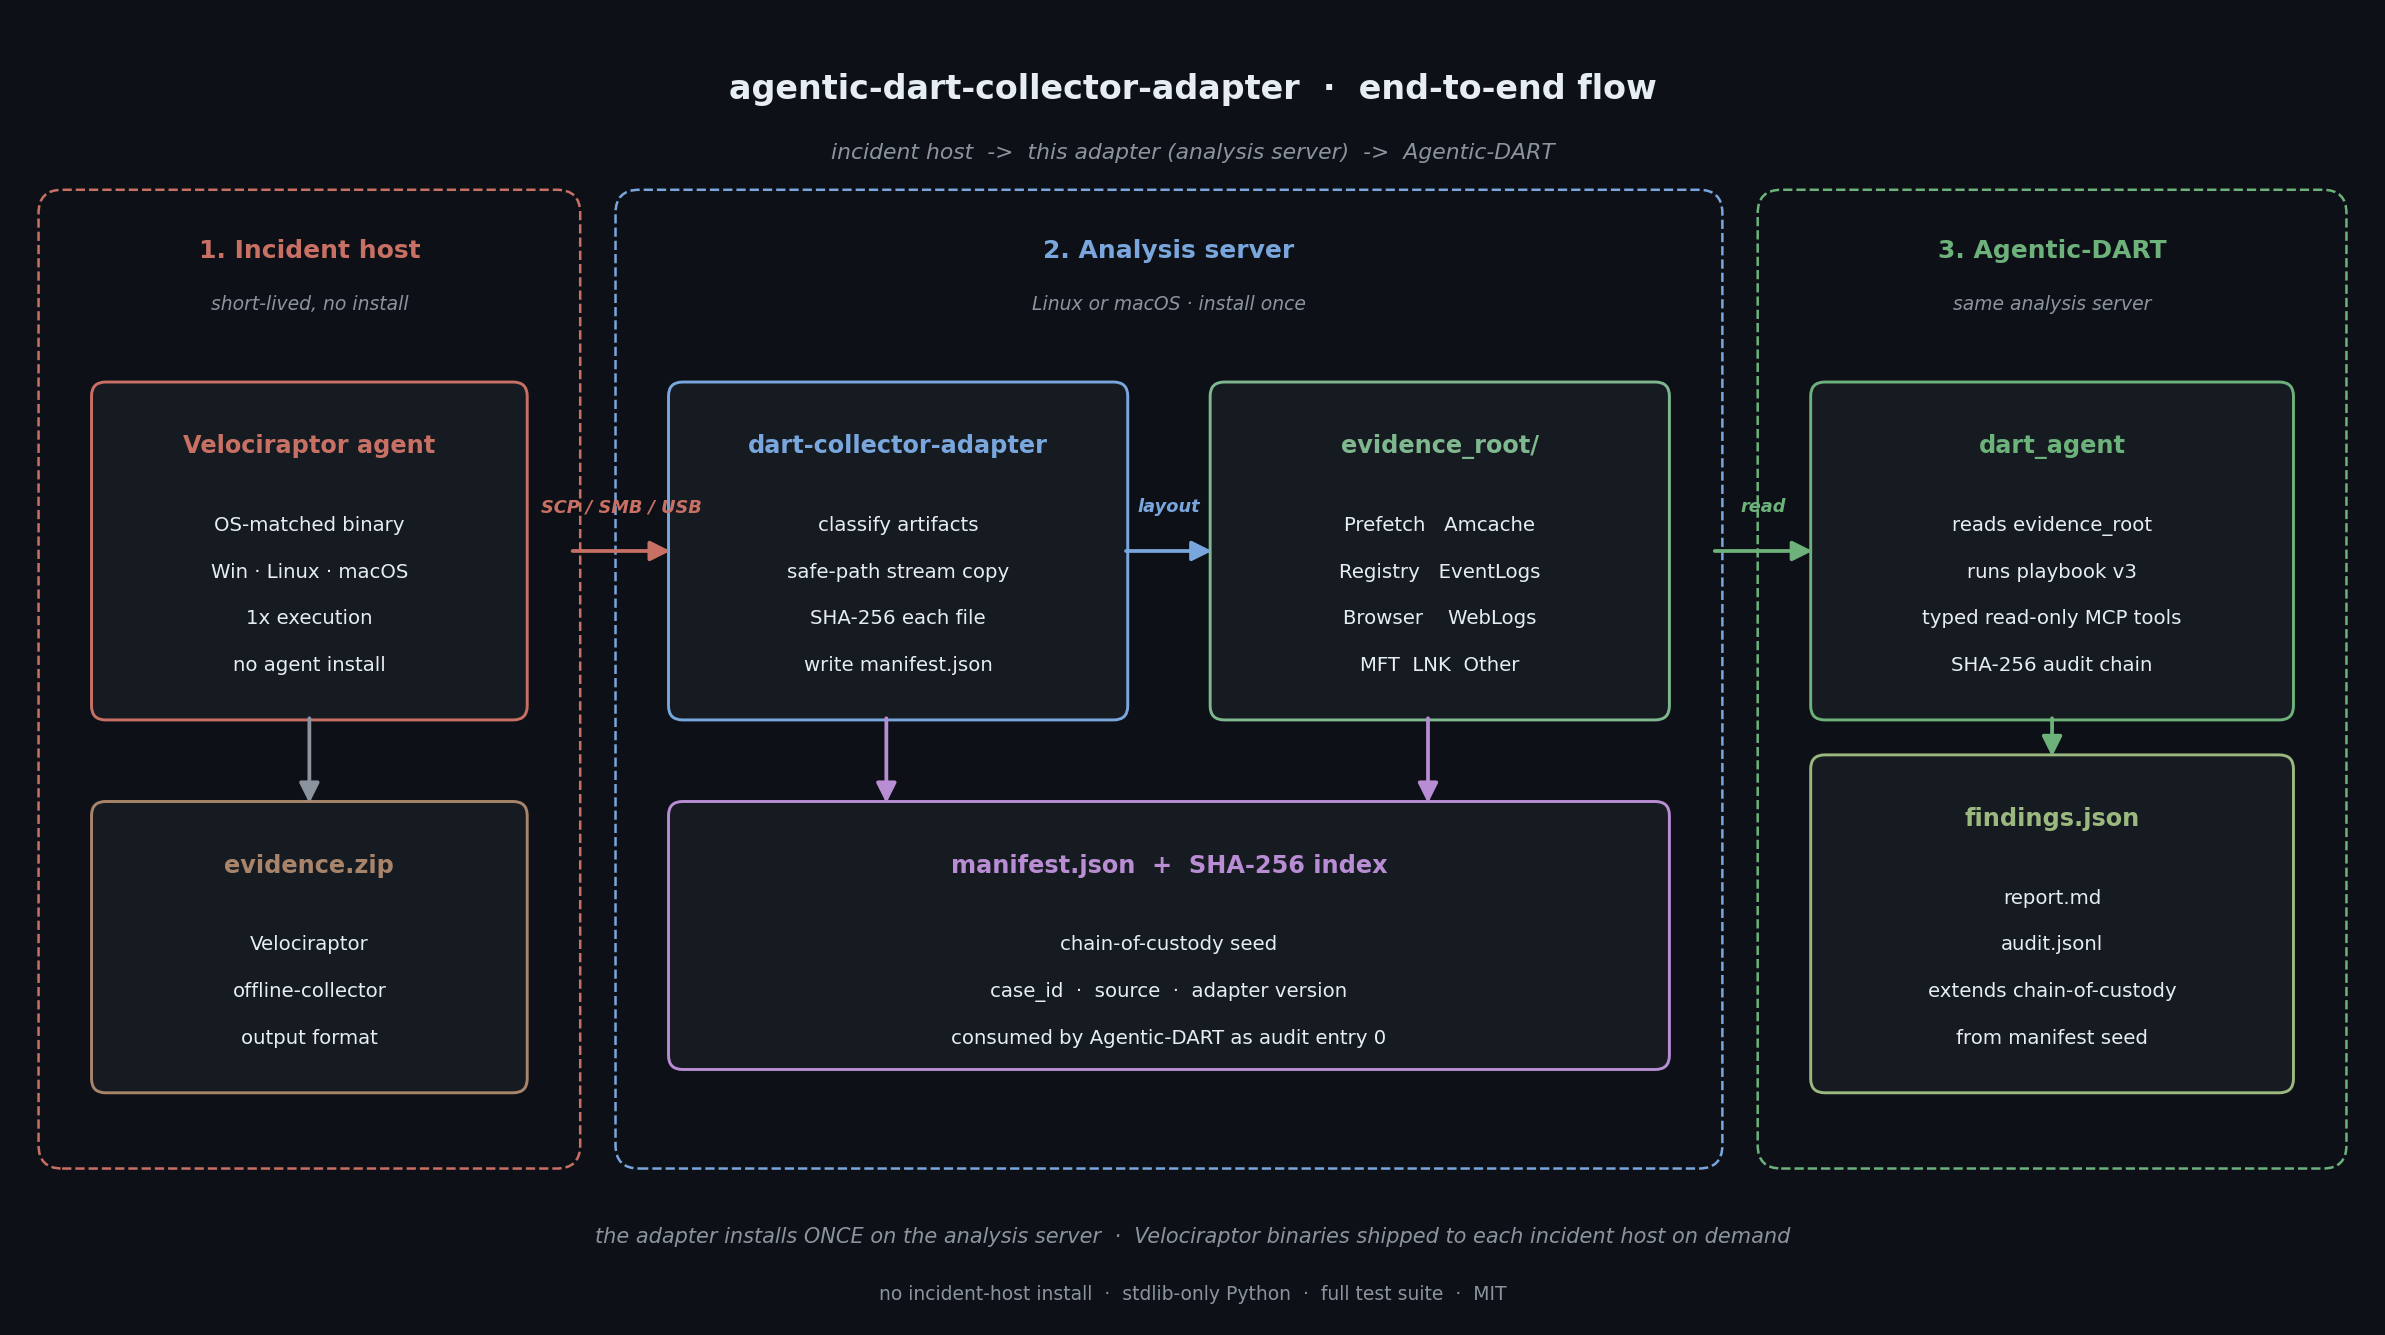
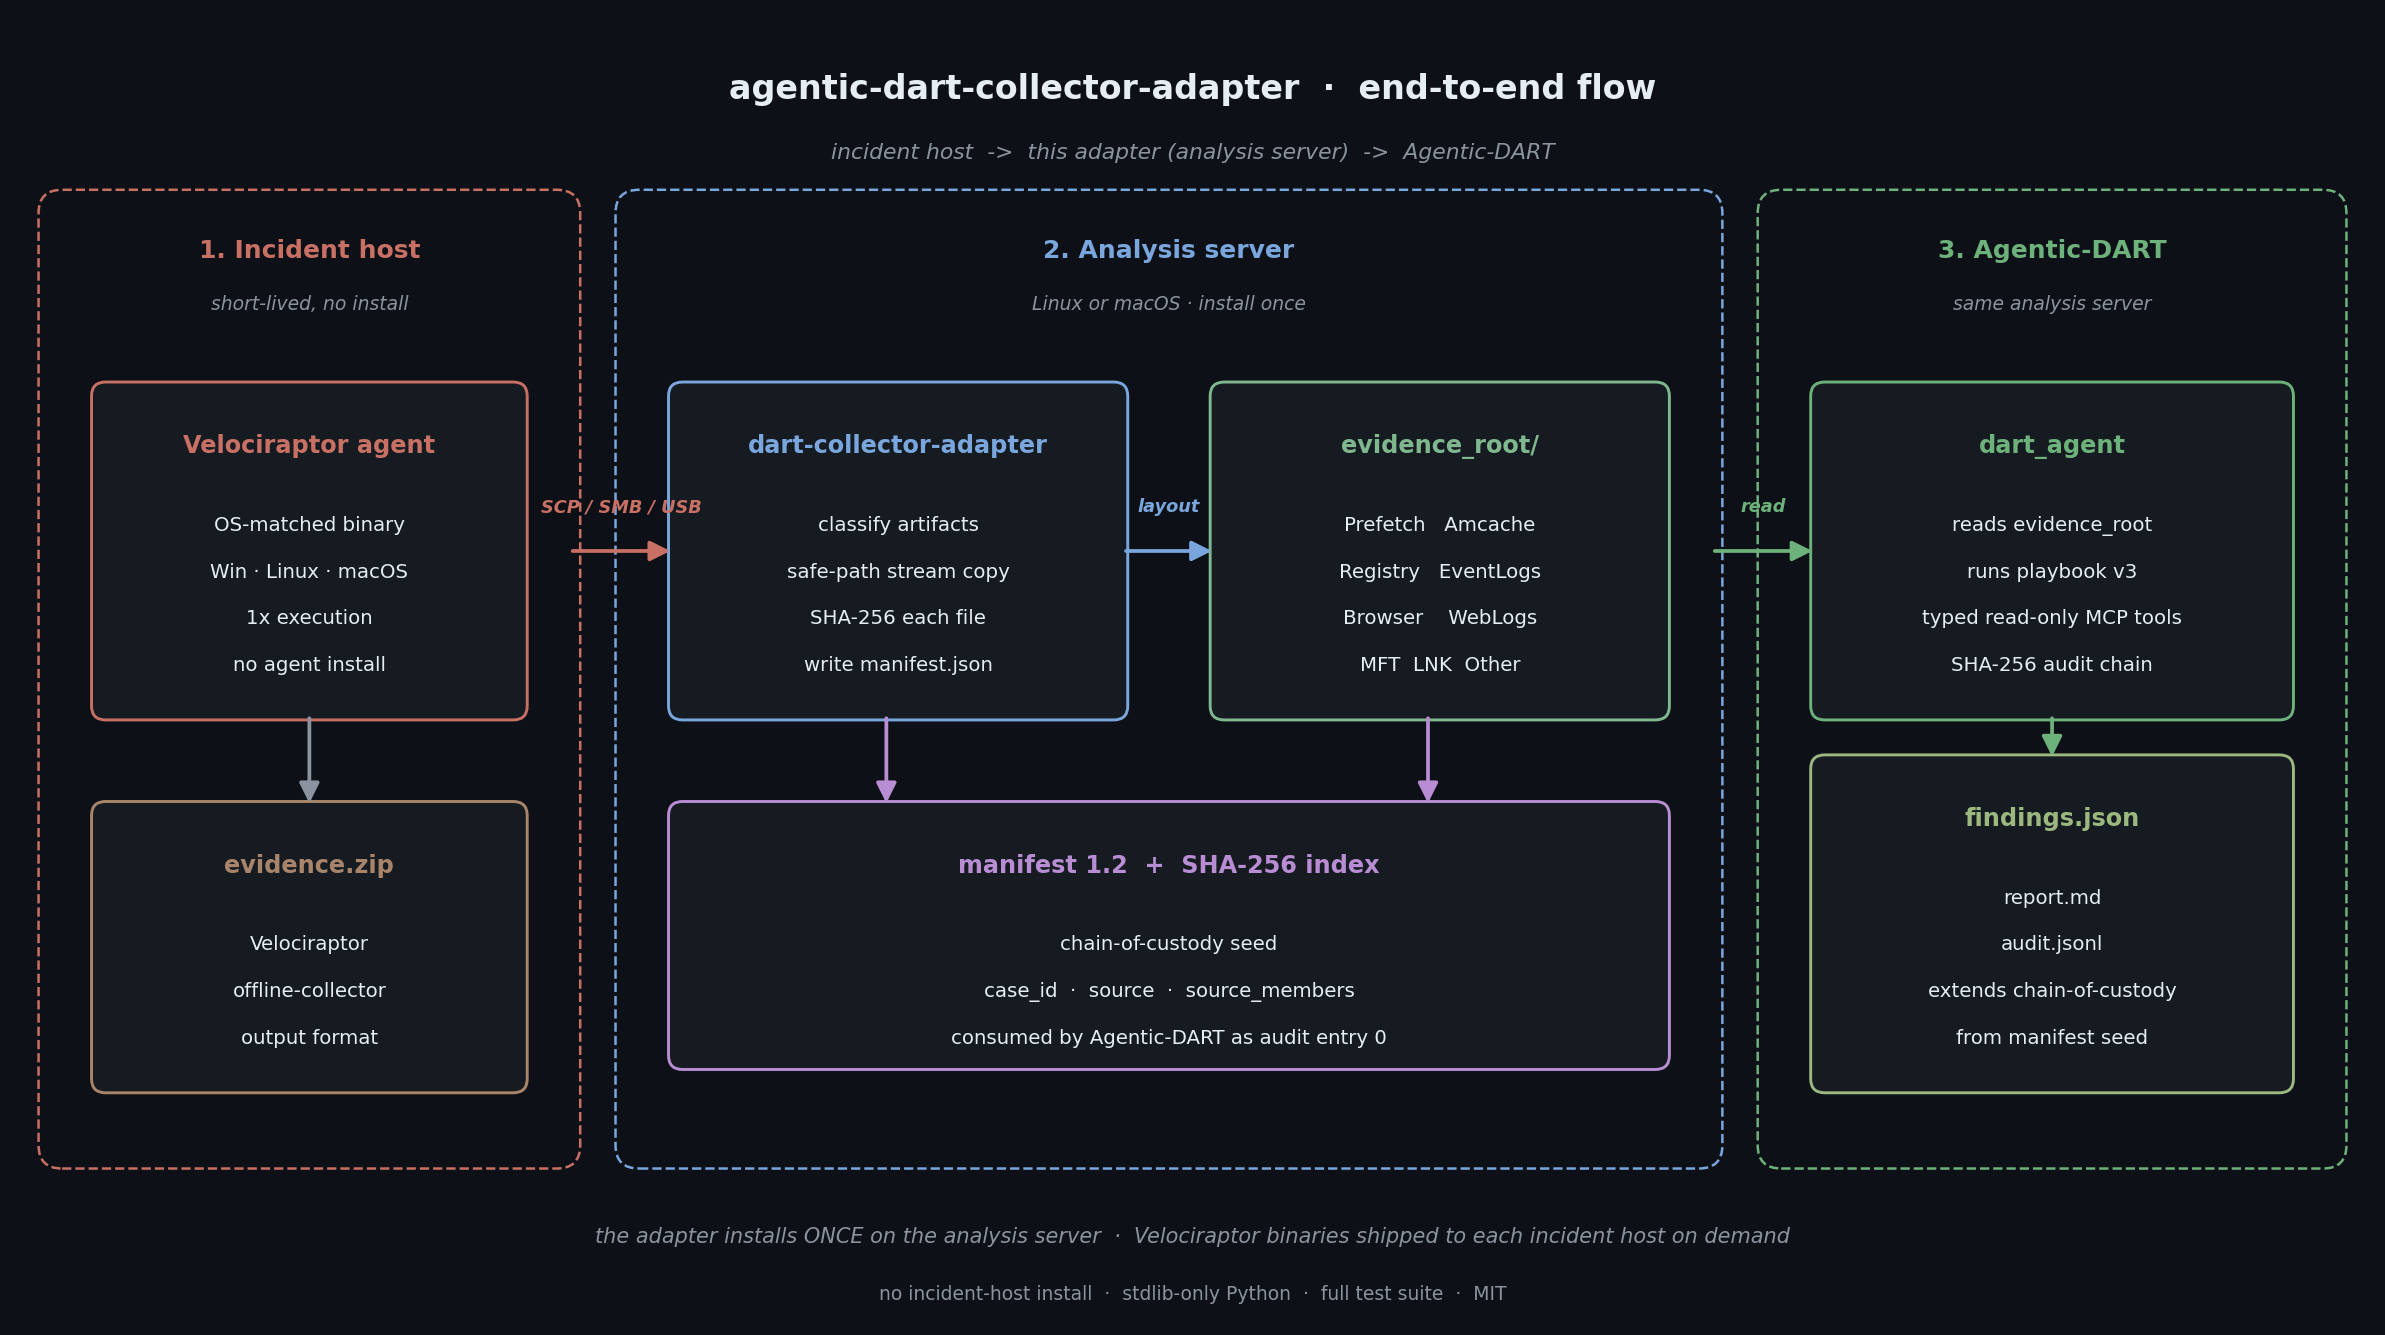
fix: preserve source provenance for flat-layout collisions
Avoid silently overwriting artifacts when different Velociraptor ZIP members collapse to the same evidence_root basename. Colliding outputs now receive a deterministic source-path digest suffix.

Bump manifest.json to schema 1.2 and add source_members so each output-relative path maps back to its original ZIP member. Expose the same provenance map on AdapterResult.

Refresh package metadata, README examples, changelog, and generated diagrams around the stable 1.0.1 adapter behavior.

QA: compileall passed for src, tests, and scripts. pytest passed: 46 passed. pytest --collect-only confirmed 46 tests.

Changed region(s): [[0.4034, 0.6142, 0.5895, 0.6757], [0.4034, 0.7371, 0.5585, 0.7985], [0.5895, 0.4914, 0.6205, 0.5221]]

diff --git a/tests/test_adapter.py b/tests/test_adapter.py
@@ -44,12 +44,12 @@ def test_adapt_produces_expected_layout(velo_zip: Path, tmp_path: Path):
 
 def test_manifest_has_required_fields(velo_zip: Path, tmp_path: Path):
     out = tmp_path / "evidence_root"
-    adapt(velo_zip, out, case_id="case-manifest")
+    result = adapt(velo_zip, out, case_id="case-manifest")
     manifest = json.loads((out / "manifest.json").read_text(encoding="utf-8"))
 
     for k in ("manifest_version", "case_id", "generated_at",
               "source", "host", "adapter", "counters",
-              "categories", "sha256_index"):
+              "categories", "sha256_index", "source_members"):
         assert k in manifest, f"missing manifest field: {k}"
 
     assert manifest["case_id"] == "case-manifest"
@@ -58,6 +58,12 @@ def test_manifest_has_required_fields(velo_zip: Path, tmp_path: Path):
     assert manifest["categories"]["amcache"] == 1
     # SHA-256 index covers every output file
     assert "Prefetch/SVCHOST.EXE-ABC.pf" in manifest["sha256_index"]
+    assert manifest["source_members"]["Prefetch/SVCHOST.EXE-ABC.pf"].endswith(
+        "SVCHOST.EXE-ABC.pf"
+    )
+    assert result.source_members["Prefetch/SVCHOST.EXE-ABC.pf"].endswith(
+        "SVCHOST.EXE-ABC.pf"
+    )
 
 
 def test_adapt_refuses_overwrite_by_default(velo_zip: Path, tmp_path: Path):
@@ -145,6 +151,34 @@ def test_overwrite_clears_stale_files(velo_zip: Path, tmp_path: Path):
     assert manifest["counters"]["files_copied"] == len(manifest["sha256_index"])
     assert "Prefetch/NOTEPAD.EXE-NEW.pf" in manifest["sha256_index"]
     assert "Prefetch/SVCHOST.EXE-ABC.pf" not in manifest["sha256_index"]
+
+
+def test_duplicate_basenames_are_not_silently_overwritten(tmp_path: Path):
+    z = tmp_path / "duplicate-history.zip"
+    with zipfile.ZipFile(z, "w") as zf:
+        zf.writestr(
+            "uploads/auto/C:/Users/alice/AppData/Local/Google/Chrome/User Data/Default/History",
+            b"alice",
+        )
+        zf.writestr(
+            "uploads/auto/C:/Users/bob/AppData/Local/Google/Chrome/User Data/Default/History",
+            b"bob",
+        )
+
+    out = tmp_path / "out"
+    result = adapt(z, out, case_id="case-dup")
+    manifest = json.loads((out / "manifest.json").read_text(encoding="utf-8"))
+    browser_files = sorted(p.name for p in (out / "Browser").iterdir())
+
+    assert result.files_copied == 2
+    assert len(browser_files) == 2
+    assert "History" in browser_files
+    assert (out / "Browser" / "History").read_bytes() == b"alice"
+    assert any(name.startswith("History-") for name in browser_files)
+    assert len(result.source_members) == 2
+    assert len(manifest["sha256_index"]) == 2
+    assert len(manifest["source_members"]) == 2
+    assert any("Users/bob" in member for member in manifest["source_members"].values())
 
 
 def test_symlink_member_is_skipped(tmp_path: Path):

diff --git a/src/dart_collector_adapter/adapter.py b/src/dart_collector_adapter/adapter.py
@@ -72,6 +72,7 @@ class AdapterResult:
     bytes_copied: int = 0
     categories: dict[str, int] = field(default_factory=dict)
     skipped_paths: list[str] = field(default_factory=list)
+    source_members: dict[str, str] = field(default_factory=dict)
     source_sha256: str | None = None
 
 
@@ -163,6 +164,7 @@ def adapt(
             if target is None:
                 _skip(result, info.filename, "would escape evidence_root")
                 continue
+            target = _avoid_target_collision(target, dst, info.filename)
 
             target.parent.mkdir(parents=True, exist_ok=True)
             remaining_total = max_total_bytes - result.bytes_copied
@@ -191,6 +193,7 @@ def adapt(
 
             rel = target.relative_to(dst).as_posix()
             sha256_index[rel] = sha
+            result.source_members[rel] = info.filename
 
             result.files_copied += 1
             result.bytes_copied += written
@@ -210,6 +213,7 @@ def adapt(
         skipped_paths=result.skipped_paths,
         include_sha256_index=include_sha256_index,
         sha256_index=dict(sorted(sha256_index.items())) if include_sha256_index else None,
+        source_members=dict(sorted(result.source_members.items())),
     )
 
     return result
@@ -269,6 +273,34 @@ def _apply_member_mtime(target: Path, info: zipfile.ZipInfo) -> None:
         os.utime(target, (ts, ts))
     except (OverflowError, OSError, ValueError):
         pass
+
+
+def _avoid_target_collision(target: Path, evidence_root: Path, member_name: str) -> Path:
+    """
+    Keep the public evidence_root layout flat, but never let two source
+    members silently overwrite each other. Common forensic filenames such as
+    History, SYSTEM, access.log, and ConsoleHost_history.txt can appear once
+    per user/profile/host in a Velociraptor ZIP.
+    """
+    if not target.exists():
+        return target
+
+    digest = hashlib.sha256(member_name.encode("utf-8", errors="surrogatepass")).hexdigest()[:12]
+    stem = target.stem or target.name
+    suffix = target.suffix
+    parent = target.parent
+    candidate = parent / f"{stem}-{digest}{suffix}"
+    counter = 2
+    while candidate.exists():
+        candidate = parent / f"{stem}-{digest}-{counter}{suffix}"
+        counter += 1
+
+    root_resolved = evidence_root.resolve()
+    try:
+        candidate.resolve().relative_to(root_resolved)
+    except ValueError as e:
+        raise RuntimeError(f"collision target escaped evidence_root: {candidate}") from e
+    return candidate
 
 
 def _safe_target_path(evidence_root: Path, member_name: str) -> Path | None:

diff --git a/src/dart_collector_adapter/manifest.py b/src/dart_collector_adapter/manifest.py
@@ -7,6 +7,7 @@ The manifest is the chain-of-custody seed for Agentic-DART:
 - sha256_index lets downstream tools verify integrity without re-reading the ZIP
 - source.sha256 anchors the input ZIP's identity so the chain survives rename
 - skipped records what the adapter refused, with the reason
+- source_members maps each output file back to its original ZIP member path
 """
 from __future__ import annotations
 
@@ -18,7 +19,7 @@ from pathlib import Path
 from .hash_indexer import compute_sha256_tree
 
 MANIFEST_NAME = "manifest.json"
-MANIFEST_VERSION = "1.1"
+MANIFEST_VERSION = "1.2"
 
 
 def write_manifest(
@@ -33,6 +34,7 @@ def write_manifest(
     include_sha256_index: bool = True,
     source_sha256: str | None = None,
     sha256_index: dict[str, str] | None = None,
+    source_members: dict[str, str] | None = None,
     skipped_paths: list[str] | None = None,
     adapter_version: str | None = None,
 ) -> Path:
@@ -45,6 +47,8 @@ def write_manifest(
         include_sha256_index is True, the output tree is walked.
     source_sha256 : SHA-256 of the input collector ZIP (chain-of-custody anchor).
     skipped_paths : list of "<member>  (<reason>)" strings recorded by the adapter.
+    source_members : {output_relative_path: original_zip_member_name}. This preserves
+        provenance when flat layout collision handling renames an output file.
     adapter_version : injected to avoid an import-time cycle.
     """
     root = Path(evidence_root).resolve()
@@ -83,6 +87,9 @@ def write_manifest(
 
     if skipped_paths:
         manifest["skipped"] = list(skipped_paths)
+
+    if source_members is not None:
+        manifest["source_members"] = dict(sorted(source_members.items()))
 
     if include_sha256_index:
         index = sha256_index

diff --git a/scripts/_gen_diagrams.py b/scripts/_gen_diagrams.py
@@ -93,9 +93,9 @@ def diagram_arch():
          lines=["Prefetch   Amcache", "Registry   EventLogs",
                 "Browser    WebLogs", "MFT  LNK  Other"])
     _arrow(ax, 47, 33, 51, 33, color=ADAPTER, label="layout", label_offset=1.5)
-    _box(ax, 28, 11, 42, 11, MANIFEST, title="manifest.json  +  SHA-256 index",
+    _box(ax, 28, 11, 42, 11, MANIFEST, title="manifest 1.2  +  SHA-256 index",
          lines=["chain-of-custody seed",
-                "case_id  ·  source  ·  adapter version",
+                "case_id  ·  source  ·  source_members",
                 "consumed by Agentic-DART as audit entry 0"])
     _arrow(ax, 37, 26, 37, 22, color=MANIFEST)
     _arrow(ax, 60, 26, 60, 22, color=MANIFEST)
@@ -139,9 +139,9 @@ def diagram_roadmap():
             ha="center", va="top", fontsize=15, fontweight="bold", color=TEXT_PRI)
 
     phases = [
-        ("v1.0", "current",
+        ("v1.0.1", "current",
          ["Velociraptor ZIP", "  to evidence_root",
-          "SHA-256 manifest 1.1", "hardened · CI green"],
+          "manifest 1.2", "source-member provenance"],
          ADAPTER, True),
         ("v1.1", "next",
          ["sidecar generation", "PECmd · AmcacheParser",

diff --git a/README.md b/README.md
@@ -203,7 +203,8 @@ Output:
   },
   "files_copied": 174,
   "files_skipped": 0,
-  "output_root": "/evidence/case-2026-001"
+  "output_root": "/evidence/case-2026-001",
+  "source_sha256": "44e8c1..."
 }
 ```
 
@@ -245,6 +246,8 @@ class AdapterResult:
     bytes_copied: int
     categories: dict[str, int]
     skipped_paths: list[str]
+    source_members: dict[str, str]
+    source_sha256: str | None
 ```
 
 ---
@@ -256,7 +259,7 @@ class AdapterResult:
 | 1    | Open the Velociraptor ZIP and iterate every file member.                                              |
 | 2    | Classify each member by name (`.pf` → Prefetch, `Amcache.hve` → Amcache, `*.evtx` → EventLogs, ...).  |
 | 3    | Validate the basename — reject control bytes, traversal characters, and anything that resolves outside the evidence_root. |
-| 4    | Stream-copy into `evidence_root/<Category>/<basename>` (preserves binary content, never modifies).    |
+| 4    | Stream-copy into `evidence_root/<Category>/<basename>` (preserves binary content, never modifies). If two source members collapse to the same flat filename, the later copy receives a short content-independent source-path digest suffix instead of overwriting the earlier one. |
 | 5    | After all files copied, walk the output and SHA-256 every file (1 MiB streaming, no full-file load).  |
 | 6    | Write `manifest.json` last so a half-finished run never looks successful.                             |
 
@@ -273,6 +276,10 @@ The adapter is opinionated about what it *won't* do, to keep its security surfac
 - Existing `evidence_root` with a manifest is not overwritten (use `--overwrite`; when used, known layout subdirectories are cleared first so stale evidence cannot contaminate the new manifest).
 
 Skipped paths are reported in `AdapterResult.skipped_paths` **and** persisted under `skipped` in `manifest.json` for chain-of-custody.
+
+Collision-renamed files are mapped back to their original ZIP member path under
+`manifest.json` -> `source_members`, so downstream tools can preserve provenance
+without giving up the flat `evidence_root` layout.
 
 ---
 
@@ -306,7 +313,7 @@ Written under `evidence_root/manifest.json`:
 
 ```json
 {
-  "manifest_version": "1.1",
+  "manifest_version": "1.2",
   "case_id": "case-2026-001",
   "generated_at": "2026-05-13T15:00:00+00:00",
   "source": {
@@ -321,7 +328,7 @@ Written under `evidence_root/manifest.json`:
   },
   "adapter": {
     "name": "agentic-dart-collector-adapter",
-    "version": "1.0.0"
+    "version": "1.0.1"
   },
   "counters": {
     "files_copied": 174,
@@ -336,14 +343,23 @@ Written under `evidence_root/manifest.json`:
     "browser": 4
   },
   "skipped": [],
+  "source_members": {
+    "Prefetch/SVCHOST.EXE-ABC.pf": "uploads/auto/C:/Windows/Prefetch/SVCHOST.EXE-ABC.pf",
+    "Browser/History": "uploads/auto/C:/Users/alice/AppData/Local/Google/Chrome/User Data/Default/History",
+    "Browser/History-7e9a1c2d3b4f": "uploads/auto/C:/Users/bob/AppData/Local/Google/Chrome/User Data/Default/History"
+  },
   "sha256_index": {
     "Prefetch/SVCHOST.EXE-ABC.pf": "9d7f...",
-    "Amcache/Amcache.hve": "3c8e..."
+    "Amcache/Amcache.hve": "3c8e...",
+    "Browser/History": "8d41...",
+    "Browser/History-7e9a1c2d3b4f": "b7a0..."
   }
 }
 ```
 
-> Manifest schema is at `1.1`: `source.sha256` (input-ZIP anchor) and `skipped` (audit trail) are included alongside the file index.
+> Manifest schema is at `1.2`: `source.sha256` anchors the input ZIP,
+> `skipped` records refused inputs, and `source_members` preserves provenance
+> for flattened or collision-renamed output files alongside the SHA-256 index.
 
 ---
 
@@ -363,7 +379,7 @@ Because forking 100k+ lines of Go to add one Python adapter would be insane.
 
 | Phase     | Status   | Scope                                                                                            |
 |-----------|----------|--------------------------------------------------------------------------------------------------|
-| **v1.0**  | current  | Velociraptor ZIP → evidence_root with SHA-256 manifest 1.1; hardened integrity (input-ZIP SHA-256 anchor, persisted skip log, overwrite-safe), ZIP-bomb + symlink defenses, single-pass hashing, mtime preservation, install-time binary checksum verification. Full test suite passing on Linux+macOS × py3.10/11/12. |
+| **v1.0.1** | current  | Velociraptor ZIP → evidence_root with SHA-256 manifest 1.2; hardened integrity (input-ZIP SHA-256 anchor, persisted skip log, collision-safe source-member provenance, overwrite-safe), ZIP-bomb + symlink defenses, single-pass hashing, mtime preservation, install-time binary checksum verification. Full test suite passing locally on Python 3.11. |
 | **v1.1**  | next     | Sidecar generation — auto-invoke `PECmd`, `AmcacheParser`, `EvtxECmd` when present locally.       |
 | **v1.2**  | later    | Ingest Velociraptor `results/*.json` (parsed-artifact JSON) and merge into the manifest.          |
 | **v1.3**  | later    | macOS + Linux artifact coverage parity with Windows.                                              |

diff --git a/CHANGELOG.md b/CHANGELOG.md
@@ -4,6 +4,21 @@ All notable changes to **agentic-dart-collector-adapter** are documented here.
 The adapter follows the [Agentic-DART](https://github.com/Juwon1405/agentic-dart)
 release line.
 
+## [1.0.1] — 2026-06-10 — Collision-safe manifest provenance
+
+### Fixed
+- Prevented flat-layout filename collisions from silently overwriting earlier
+  output files when multiple Velociraptor ZIP members share a basename such as
+  `History`, `SYSTEM`, or `access.log`.
+- Added deterministic digest suffixing for colliding output paths while keeping
+  the public `evidence_root/<Category>/<basename>` layout.
+
+### Changed
+- Bumped `manifest.json` schema to `1.2` with `source_members`, a map from each
+  output-relative path back to the original ZIP member path.
+- Updated package metadata to the stable classifier and version `1.0.1`.
+- Regenerated README and roadmap diagrams around manifest `1.2`.
+
 ## [1.0.0] — 2026-06-05 — First stable release
 
 First stable release, aligned with Agentic-DART v1.0.0. The adapter's core job —